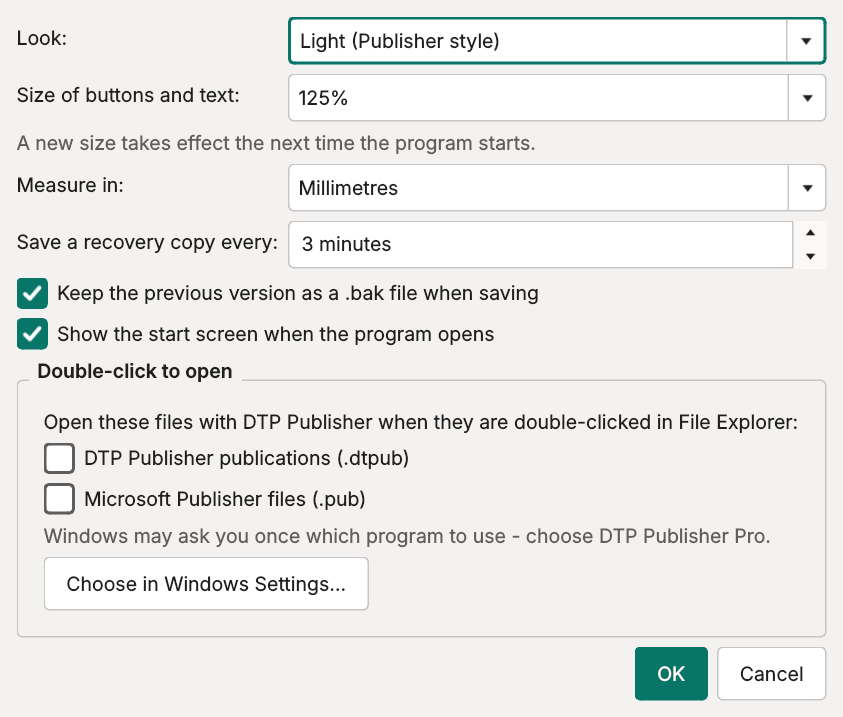
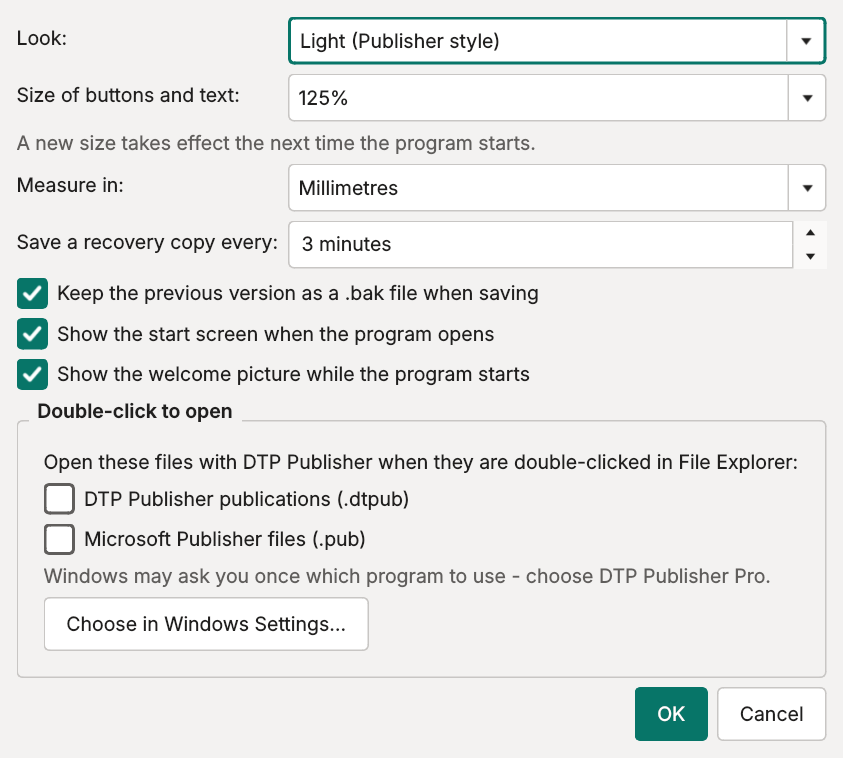
dtp_publisher_v5.3.4

diff --git a/src/dtp_publisher/help/manual.html b/src/dtp_publisher/help/manual.html
@@ -171,8 +171,9 @@ th { background: var(--tint); font-size: .9rem; }
 <h2 id="start"><span class="num">1</span>Getting started</h2>
 
 <h3>Starting the program</h3>
-<p>Double-click <b>DTP Publisher.exe</b> (or its shortcut on the desktop). The first thing you
-see is the start screen.</p>
+<p>Double-click <b>DTP Publisher.exe</b> (or its shortcut on the desktop). A welcome picture
+shows for a few seconds while the program gets ready (click it to skip it), then the start
+screen appears.</p>
 
 <h3>The start screen</h3>
 <figure>
@@ -627,6 +628,8 @@ was before.</p>
   time you save.</td></tr>
   <tr><td><b>Show the start screen</b></td><td>Whether the start screen opens when the program
   starts.</td></tr>
+  <tr><td><b>Show the welcome picture</b></td><td>Whether the welcome picture shows while the
+  program starts.</td></tr>
   <tr><td><b>Double-click to open</b></td><td>See <a href="#double-click">above</a>.</td></tr>
 </table>
 

diff --git a/src/dtp_publisher/app.py b/src/dtp_publisher/app.py
@@ -52,8 +52,110 @@ def install_error_handler(log_path: str):
     sys.excepthook = hook
 
 
+def close_boot_splash():
+    """The one-file .exe shows a picture while it unpacks itself (PyInstaller's
+    pyi_splash); close it once the program's own window or picture is up."""
+    if "_PYI_SPLASH_IPC" not in os.environ:     # no such picture in this build
+        return
+    try:
+        import pyi_splash  # type: ignore[import-not-found]
+        pyi_splash.close()
+    except Exception:                   # never stop the program over a picture
+        pass
+
+
+def self_test(out_path: str) -> int:
+    """``DTP Publisher.exe --self-test=result.json``: check a built program has
+    everything it needs (used by build_onefile.bat; handy after any build).
+    Writes the results as JSON; returns 0 if all passed."""
+    import json
+    import tempfile
+    import traceback
+
+    from PyQt6.QtCore import QBuffer, QByteArray, QIODevice
+    from PyQt6.QtGui import QImage, QImageReader
+    from PyQt6.QtWidgets import QApplication
+
+    app = QApplication.instance() or QApplication(sys.argv[:1])
+    checks = []
+
+    def check(name, fn):
+        try:
+            detail = fn()
+            checks.append({"name": name, "ok": True, "detail": detail})
+        except Exception:
+            checks.append({"name": name, "ok": False, "detail": traceback.format_exc(limit=3)})
+
+    def manual():
+        from .ui.window import manual_for_browser, manual_path
+        assert os.path.isfile(manual_path()), manual_path()
+        img = os.path.join(os.path.dirname(manual_path()), "img")
+        n = len(os.listdir(img))
+        assert n >= 10, n
+        shown = manual_for_browser()
+        assert os.path.isfile(shown), shown
+        return f"{n} pictures; opens {shown}"
+
+    def splash_picture():
+        from .splash import IMAGE
+        img = QImage(IMAGE)
+        assert not img.isNull(), IMAGE
+        return f"{img.width()}x{img.height()}"
+
+    def photos():
+        fmts = {bytes(f).decode() for f in QImageReader.supportedImageFormats()}
+        for need in ("jpeg", "png", "gif", "bmp"):
+            assert need in fmts, f"cannot read {need}: {sorted(fmts)}"
+        ba = QByteArray()
+        buf = QBuffer(ba)
+        buf.open(QIODevice.OpenModeFlag.WriteOnly)
+        src = QImage(64, 48, QImage.Format.Format_RGB32)
+        src.fill(0x3366AA)
+        assert src.save(buf, "JPEG"), "cannot write JPEG"
+        back = QImage.fromData(ba)
+        assert not back.isNull() and back.width() == 64, "JPEG round trip"
+        return ", ".join(sorted(fmts))
+
+    def pdf():
+        from .export import export_pdf
+        from .templates import build
+        out = os.path.join(tempfile.mkdtemp(prefix="dtp-selftest-"), "t.pdf")
+        export_pdf(build("flyer"), out)
+        size = os.path.getsize(out)
+        assert size > 1000, size
+        return f"{size} bytes"
+
+    def program():
+        from . import winassoc
+        exe = winassoc.launcher()[0]
+        assert os.path.isfile(exe), exe
+        return {"frozen": bool(getattr(sys, "frozen", False)), "launcher": exe,
+                "unpacked_to": getattr(sys, "_MEIPASS", "")}
+
+    check("version", lambda: __version__)
+    check("program", program)
+    check("manual", manual)
+    check("welcome picture", splash_picture)
+    check("photos (Qt image plugins)", photos)
+    check("PDF export", pdf)
+    ok = all(c["ok"] for c in checks)
+    try:
+        with open(out_path, "w", encoding="utf-8") as f:
+            json.dump({"ok": ok, "version": __version__, "checks": checks}, f, indent=2)
+    except OSError:
+        pass
+    del app
+    return 0 if ok else 1
+
+
 def main(argv: Optional[List[str]] = None) -> int:
     argv = list(sys.argv if argv is None else argv)
+    for a in argv[1:]:
+        if a == "--self-test" or a.startswith("--self-test="):
+            close_boot_splash()
+            out = a.partition("=")[2] or os.path.join(settings_mod.config_dir(),
+                                                      "self-test.json")
+            return self_test(out)
     s = settings_mod.get()
     # UI scaling must be decided before QApplication exists.
     if "QT_SCALE_FACTOR" not in os.environ and abs(s.ui_scale - 1.0) > 1e-6:
@@ -77,11 +179,18 @@ def main(argv: Optional[List[str]] = None) -> int:
     app.setFont(f)
     theme.apply(app, s.theme)
 
+    splash = None
+    if s.show_splash:
+        from .splash import Splash
+        splash = Splash(lambda: begin())
+        splash.show()
+        app.processEvents()             # paint it now, before the slow imports
+    close_boot_splash()                 # the one-file .exe's unpacking picture
+
     from .serialize import DocumentError, load_document
     from .ui.window import MainWindow
 
     win = MainWindow(s)
-    win.show()
 
     def startup():
         files = [a for a in argv[1:] if not a.startswith("-") and os.path.isfile(a)]
@@ -125,7 +234,16 @@ def main(argv: Optional[List[str]] = None) -> int:
                 s.show_start = dlg.cb_show.isChecked()
                 s.save()
 
-    QTimer.singleShot(50, startup)
+    def begin():
+        win.show()
+        win.raise_()
+        win.activateWindow()
+        QTimer.singleShot(50, startup)
+
+    if splash is not None:
+        splash.ready()                  # the window appears when the picture goes
+    else:
+        begin()
     QTimer.singleShot(2000, _repair_file_types)
     return app.exec()
 

diff --git a/src/dtp_publisher/splash.py b/src/dtp_publisher/splash.py
@@ -1,0 +1,111 @@
+# SPDX-License-Identifier: Apache-2.0
+# Copyright 2026 Leon Priest (GitHub: 7h3v01d)
+"""The picture shown while the program starts.
+
+It appears as soon as Qt is up (before the heavy imports), so on a slow
+computer it fills time that would otherwise be an empty wait.  It stays for
+at least ``MIN_SECONDS`` - or until loading is done, if that takes longer -
+and a click or any key closes it straight away.  Preferences can turn it off.
+"""
+
+from __future__ import annotations
+
+import os
+import time
+from typing import Callable, Optional
+
+from PyQt6.QtCore import QRectF, Qt, QTimer
+from PyQt6.QtGui import QColor, QFont, QGuiApplication, QPainter, QPen, QPixmap
+from PyQt6.QtWidgets import QSplashScreen
+
+from . import __version__
+
+IMAGE = os.path.join(os.path.dirname(os.path.abspath(__file__)), "art", "splash.jpg")
+MIN_SECONDS = 3.0
+WIDTH = 720                      # on screen, in Qt's (scaled) pixels
+
+
+def remaining_ms(started: float, now: float, min_seconds: Optional[float] = None) -> int:
+    """How much longer the splash should stay, given when it appeared."""
+    if min_seconds is None:
+        min_seconds = MIN_SECONDS
+    return max(0, int(round((min_seconds - (now - started)) * 1000)))
+
+
+def make_pixmap(status: str = "Loading…") -> QPixmap:
+    """The picture at a crisp size for this screen, with the version and a
+    status line in its empty lower-right corner, and a fine border (its edges
+    are nearly white and would vanish against a white desktop)."""
+    src = QPixmap(IMAGE)
+    if src.isNull():                       # missing file: a plain panel, never a crash
+        src = QPixmap(1168, 784)
+        src.fill(QColor("#f4f6f6"))
+    screen = QGuiApplication.primaryScreen()
+    dpr = screen.devicePixelRatio() if screen is not None else 1.0
+    px_w = min(src.width(), int(round(WIDTH * dpr)))
+    pix = src.scaledToWidth(px_w, Qt.TransformationMode.SmoothTransformation)
+    pix.setDevicePixelRatio(px_w / WIDTH)
+    w, h = WIDTH, pix.height() / pix.devicePixelRatio()
+    p = QPainter(pix)
+    p.setRenderHint(QPainter.RenderHint.Antialiasing)
+    p.setRenderHint(QPainter.RenderHint.TextAntialiasing)
+    f = QFont("Segoe UI")
+    f.setPixelSize(13)
+    p.setFont(f)
+    p.setPen(QColor("#5b6466"))
+    p.drawText(QRectF(w - 260, h - 40, 240, 22),
+               Qt.AlignmentFlag.AlignRight | Qt.AlignmentFlag.AlignVCenter,
+               f"Version {__version__}   ·   {status}")
+    p.setPen(QPen(QColor(0, 0, 0, 70), 1))
+    p.setBrush(Qt.BrushStyle.NoBrush)
+    p.drawRect(QRectF(0.5, 0.5, w - 1, h - 1))
+    p.end()
+    return pix
+
+
+class Splash(QSplashScreen):
+    """Calls ``on_done`` once, after ``ready()`` has been called: when the
+    minimum time is up, or at once if the picture was clicked away (a click
+    before loading finishes closes the picture; the program follows when ready)."""
+
+    def __init__(self, on_done: Callable[[], None], min_seconds: Optional[float] = None,
+                 clock: Callable[[], float] = time.monotonic):
+        super().__init__(make_pixmap())
+        self.setWindowFlag(Qt.WindowType.WindowStaysOnTopHint, True)
+        self._on_done: Optional[Callable[[], None]] = on_done
+        self._min = MIN_SECONDS if min_seconds is None else min_seconds    # read now, not at import
+        self._clock = clock
+        self._started = clock()
+        self._ready = False
+        self._dismissed = False
+        self._timer = QTimer(self)
+        self._timer.setSingleShot(True)
+        self._timer.timeout.connect(self.done)
+
+    def ready(self):
+        """Loading has finished."""
+        self._ready = True
+        if self._dismissed:
+            self._fire()
+        else:
+            self._timer.start(remaining_ms(self._started, self._clock(), self._min))
+
+    def done(self):
+        """Time is up, or the user clicked: close the picture."""
+        self._dismissed = True
+        self._timer.stop()
+        self.close()
+        if self._ready:
+            self._fire()
+
+    def _fire(self):
+        cb, self._on_done = self._on_done, None
+        if cb is not None:
+            cb()
+
+    # a click or a key: don't make anyone wait
+    def mousePressEvent(self, e):
+        self.done()
+
+    def keyPressEvent(self, e):
+        self.done()

diff --git a/src/dtp_publisher/ui/window.py b/src/dtp_publisher/ui/window.py
@@ -60,6 +60,38 @@ def manual_path() -> str:
                         "help", "manual.html")
 
 
+def manual_for_browser() -> str:
+    """The manual file to hand to the web browser.  The one-file .exe unpacks
+    itself into a temporary folder that disappears when the program closes, so
+    there the manual is copied (once per version) to the settings folder."""
+    import shutil
+    import tempfile
+    src = manual_path()
+    tmp = os.path.normcase(os.path.realpath(tempfile.gettempdir()))
+    here = os.path.normcase(os.path.realpath(src))
+    if not here.startswith(tmp + os.sep):
+        return src
+    dst_dir = os.path.join(settings_mod.config_dir(), f"manual-{__version__}")
+    dst = os.path.join(dst_dir, "manual.html")
+    if not os.path.isfile(dst):
+        shutil.copytree(os.path.dirname(src), dst_dir, dirs_exist_ok=True)
+        _remove_old_manuals(dst_dir)
+    return dst
+
+
+def _remove_old_manuals(keep: str):
+    """Copies made by earlier versions (about 2 MB each).  Only folders named
+    like ``manual-5.3.3`` that hold a manual.html are touched."""
+    import re
+    import shutil
+    base = os.path.dirname(keep)
+    for name in os.listdir(base):
+        path = os.path.join(base, name)
+        if (re.fullmatch(r"manual-\d+\.\d+\.\d+", name) and path != keep
+                and os.path.isfile(os.path.join(path, "manual.html"))):
+            shutil.rmtree(path, ignore_errors=True)
+
+
 class MainWindow(QMainWindow):
     def __init__(self, s: Optional[settings_mod.Settings] = None, doc: Optional[Document] = None):
         super().__init__()
@@ -2073,6 +2105,11 @@ class MainWindow(QMainWindow):
     def open_manual(self):
         """The user manual, in the web browser (it works without the internet)."""
         path = manual_path()
+        if os.path.isfile(path):
+            try:
+                path = manual_for_browser()
+            except OSError:
+                pass                            # the original still opens for now
         if not os.path.isfile(path):
             QMessageBox.warning(self, "User Manual",
                                 f"The manual is missing from the program folder:\n{path}")

diff --git a/src/dtp_publisher/ui/dialogs/misc.py b/src/dtp_publisher/ui/dialogs/misc.py
@@ -55,6 +55,9 @@ class PreferencesDialog(QDialog):
         self.start = QCheckBox("Show the start screen when the program opens")
         self.start.setChecked(s.show_start)
         f.addRow(self.start)
+        self.splash = QCheckBox("Show the welcome picture while the program starts")
+        self.splash.setChecked(s.show_splash)
+        f.addRow(self.splash)
         v.addLayout(f)
         self.assoc = {}
         if winassoc.supported() or assoc_registry is not None:
@@ -106,6 +109,7 @@ class PreferencesDialog(QDialog):
         s.autosave_minutes = self.autosave.value()
         s.keep_backup = self.backup.isChecked()
         s.show_start = self.start.isChecked()
+        s.show_splash = self.splash.isChecked()
 
 
 class ExportPicturesDialog(QDialog):

diff --git a/src/dtp_publisher/settings.py b/src/dtp_publisher/settings.py
@@ -39,6 +39,7 @@ class Settings:
     autosave_minutes: int = 3
     keep_backup: bool = True
     show_start: bool = True
+    show_splash: bool = True
     default_font: str = "Calibri"
     default_size: float = 14.0
     recent: List[str] = field(default_factory=list)

diff --git a/src/dtp_publisher/__init__.py b/src/dtp_publisher/__init__.py
@@ -2,7 +2,7 @@
 # Copyright 2026 Leon Priest (GitHub: 7h3v01d)
 """DTP Publisher Pro — a desktop publishing app in the spirit of MS Publisher."""
 
-__version__ = "5.3.1"
+__version__ = "5.3.4"
 APP_NAME = "DTP Publisher Pro"
 APP_ORG = "7h3v01d"
 FILE_EXT = ".dtpub"
